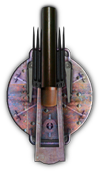
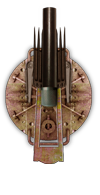
shot

diff --git a/js/main.js b/js/main.js
@@ -214,6 +214,7 @@ var BigGun = function(x, y, angle) {
         sprite.y = y;
         sprite.rotation = angle;
     });
+    this.sprite = sprite;
 
     //Пушка
     document.addEventListener('PointerDown', function(e) {
@@ -247,6 +248,11 @@ BigGun.prototype = {
     shot: function(angle, distance) {
         var bullet = new Bullet(angle, this.x, this.y, distance * BULLET_DISTANCE_COEFFICIENT);
         animation.pushToRender(bullet);
+        animation.pushToRender(this);
+    },
+    render: function() {
+    
+        animation.once(this.sprite, textures_sequence.shot)
     }
 };
 

diff --git a/js/textures.js b/js/textures.js
@@ -27,6 +27,7 @@ var textures_static = {
 };
 var textures_sequence = {
     boom: animation.loadTextureSequence('img/explosion/Explosion_Sequence_A ', 27, 1),
-    soldier_run: animation.loadTextureSequence('img/soldier/run/soldier_', 8, 1)
+    soldier_run: animation.loadTextureSequence('img/soldier/run/soldier_', 8, 1),
+    shot: animation.loadTextureSequence('img/shot/shot', 8, 1)
 
 };
